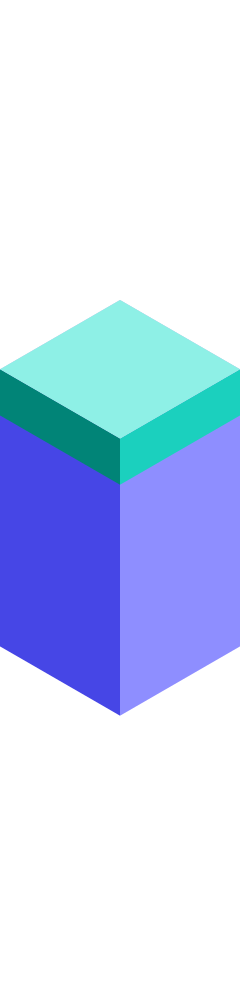
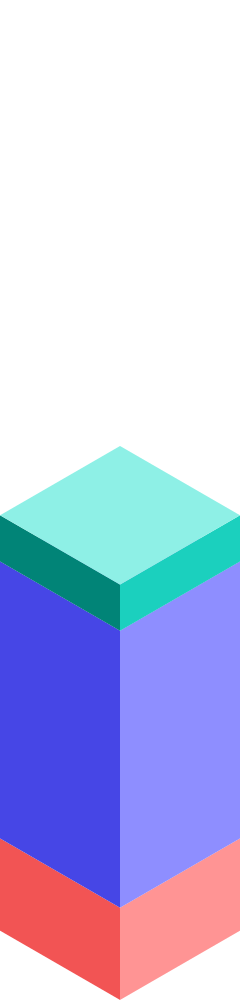
canvas generic

diff --git a/svg_tests/canvg/test.js b/svg_tests/canvg/test.js
@@ -9,19 +9,31 @@ const fs = require('fs');
 
 void async function () {
 
-    const base = await loadImage('./svgs/base-1.svg');
-    const body = await loadImage('./svgs/body-1.svg');
-    const roof = await loadImage('./svgs/roof-1.svg');
+    const canvasHeight = 1000;
+    const canvasWidth = 240;
 
-    const canvas = createCanvas(240, 1000);
+
+    const bases = [{height:231, anchor:92}];
+    const bodies = [{height:416, anchor:277}];
+    const roofs = [{height:185, anchor:-1}];
+
+    const base0 = await loadImage('./svgs/base-1.svg');
+    const body0 = await loadImage('./svgs/body-1.svg');
+    const roof0 = await loadImage('./svgs/roof-1.svg');
+
+    const baseSvgs = [base0];
+    const bodySvgs = [body0];
+    const roofSvgs = [roof0];
+
+    const canvas = createCanvas(canvasWidth, canvasHeight);
 
     const ctx = canvas.getContext('2d');
 
-    ctx.drawImage(base, 0, 300);
+    ctx.drawImage(baseSvgs[0], 0, canvasHeight - bases[0].height);
 
-    ctx.drawImage(body, 0, 300);
+    ctx.drawImage(bodySvgs[0], 0, canvasHeight - bases[0].anchor - bodies[0].height);
 
-    ctx.drawImage(roof, 0, 300);
+    ctx.drawImage(roofSvgs[0], 0, canvasHeight - bases[0].anchor - bodies[0].anchor - roofs[0].height);
 
     console.log(canvas.toDataURL());
 

diff --git a/svg_tests/sharpjs/test_1.js b/svg_tests/sharpjs/test_1.js
@@ -2,26 +2,18 @@ const fs = require('fs');
 
 const sharp = require('sharp');
 
-sharp('./svgs/base-1.svg')
-    // .rotate(180)
-    // .resize(300)
-    // .flatten( { background: '#ff6600' } )
-    .overlayWith('./svgs/body-3.svg', {
-        gravity: sharp.gravity.northeast
-    })
-    .overlayWith('./svgs/roof-2.svg', {
-        gravity: sharp.gravity.northeast
-    })
-    // .sharpen()
-    // .withMetadata()
-    // .webp( { quality: 90 } )
+sharp({create: {width: 240, height: 600, channels: 4, background: {r: 255, g: 0, b: 0, alpha: 0.4}}})
+    .overlayWith('./svgs/body-3.svg', {left: 0, top: 300})
+    // .overlayWith('./svgs/roof-2.svg', {
+    //     left: 0,
+    //     top: 100
+    // })
+    .png()
     .toBuffer()
-
     .then(function (outputBuffer) {
         // outputBuffer contains upside down, 300px wide, alpha channel flattened
         // onto orange background, composited with overlay.png with SE gravity,
         // sharpened, with metadata, 90% quality WebP image data. Phew!
-
 
         fs.writeFileSync(`./svg_tests/sharpjs/output.png`, outputBuffer);
     });
